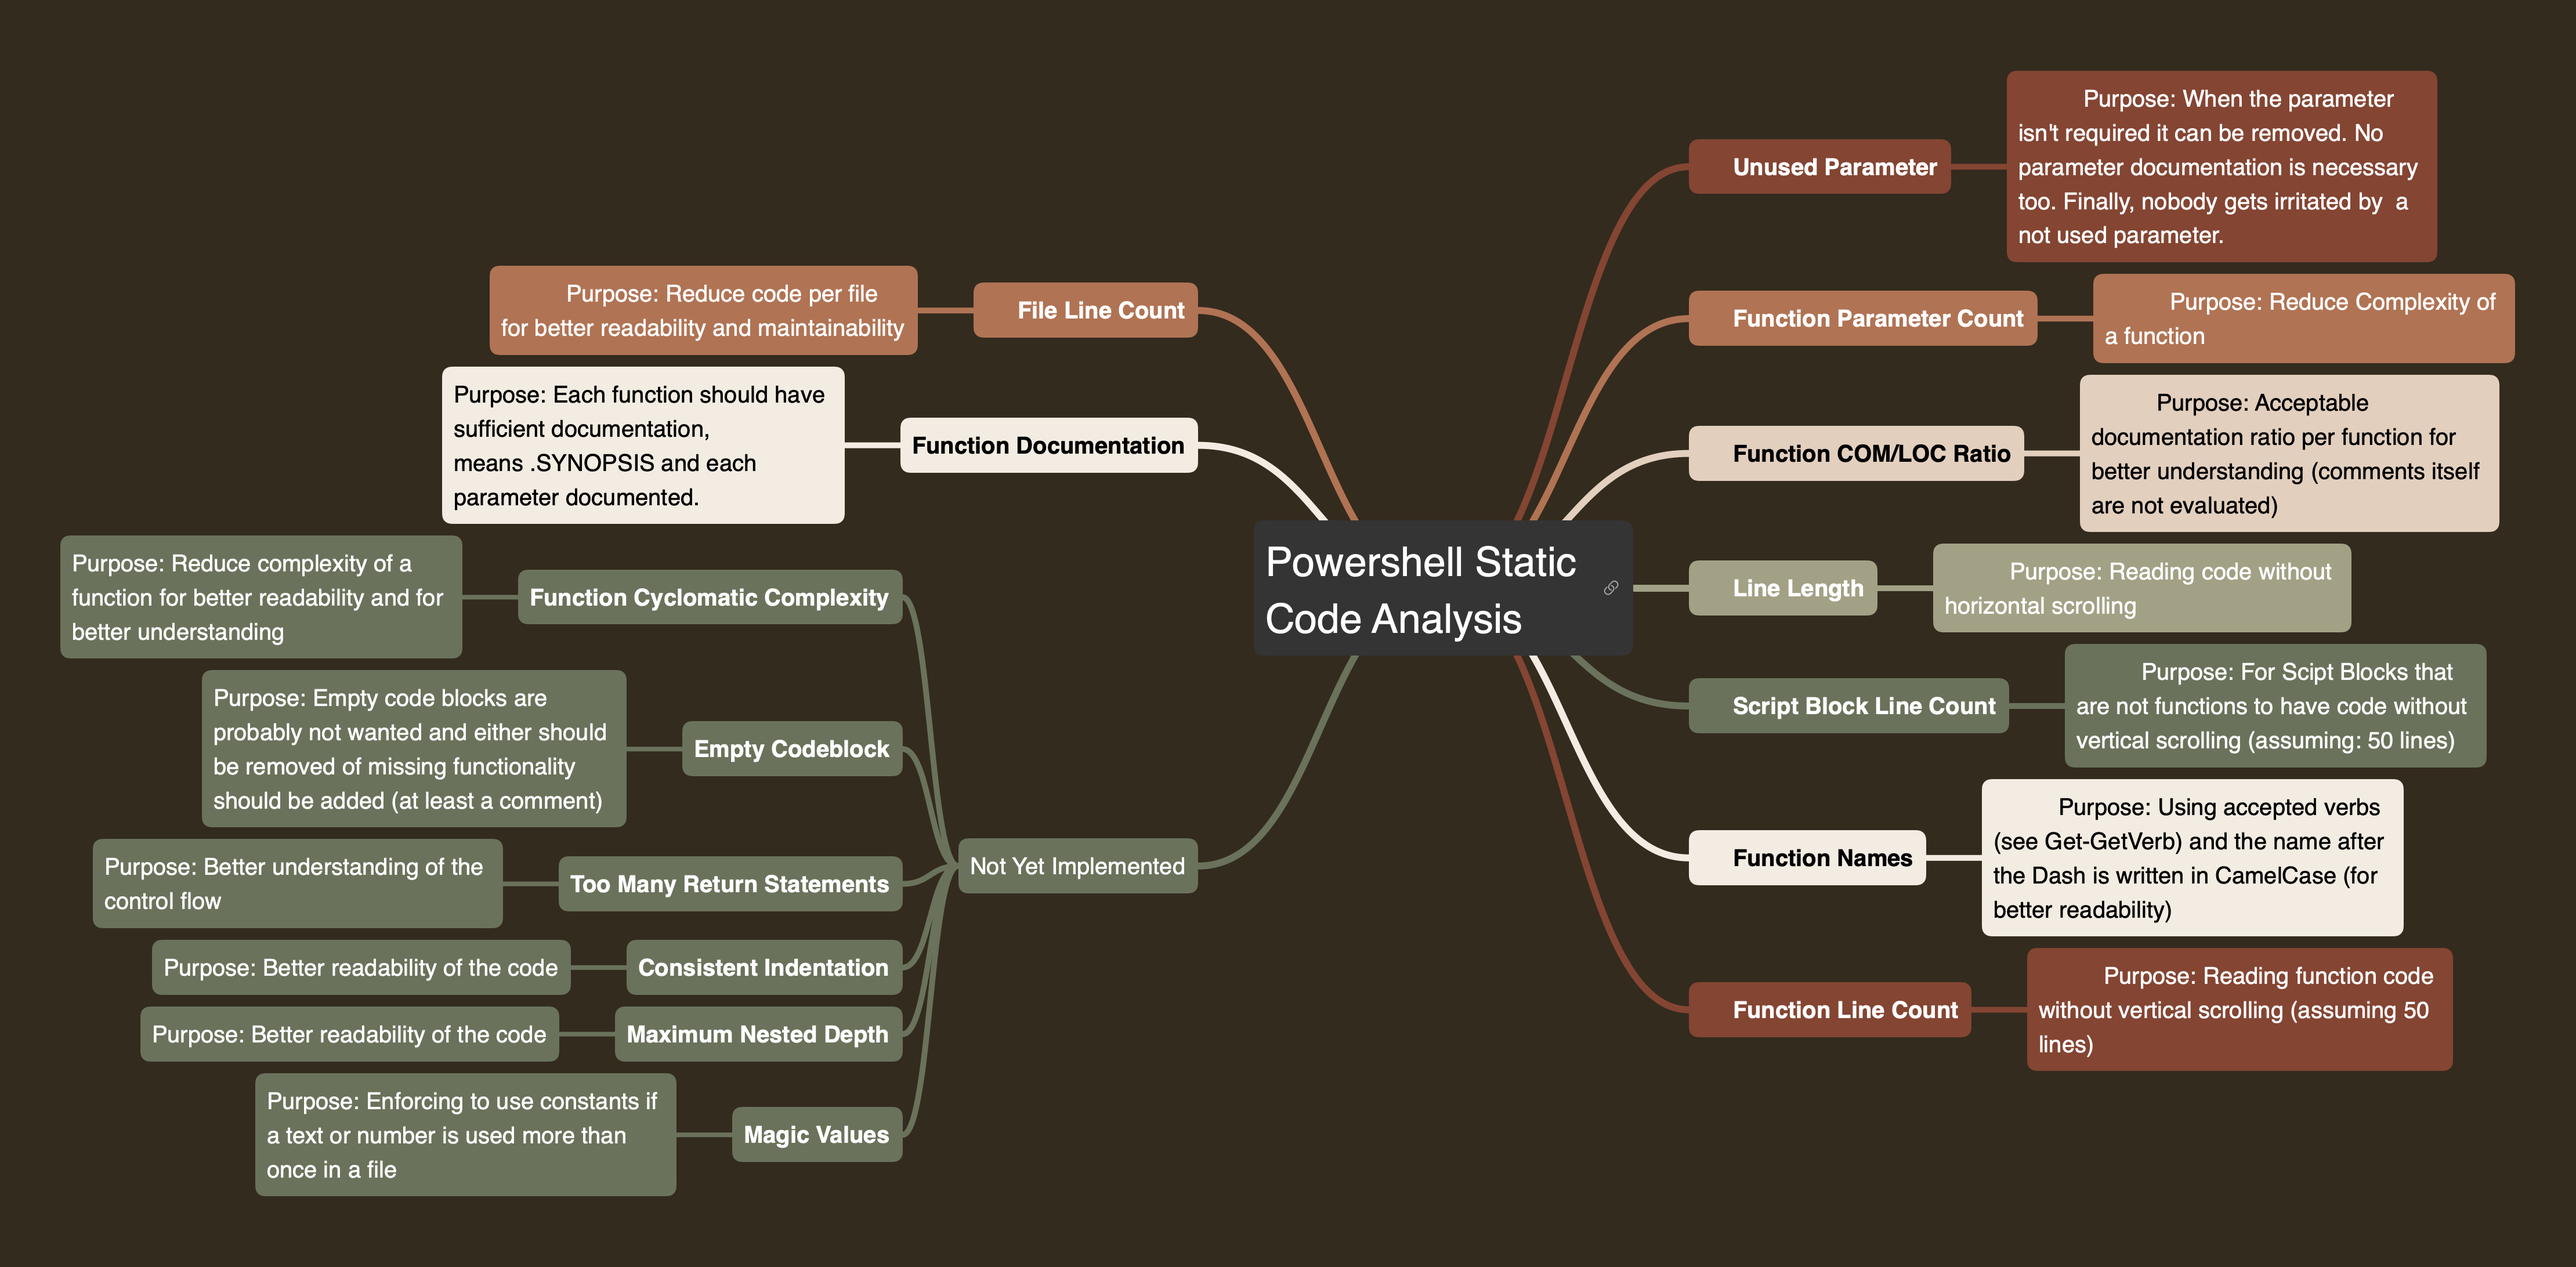
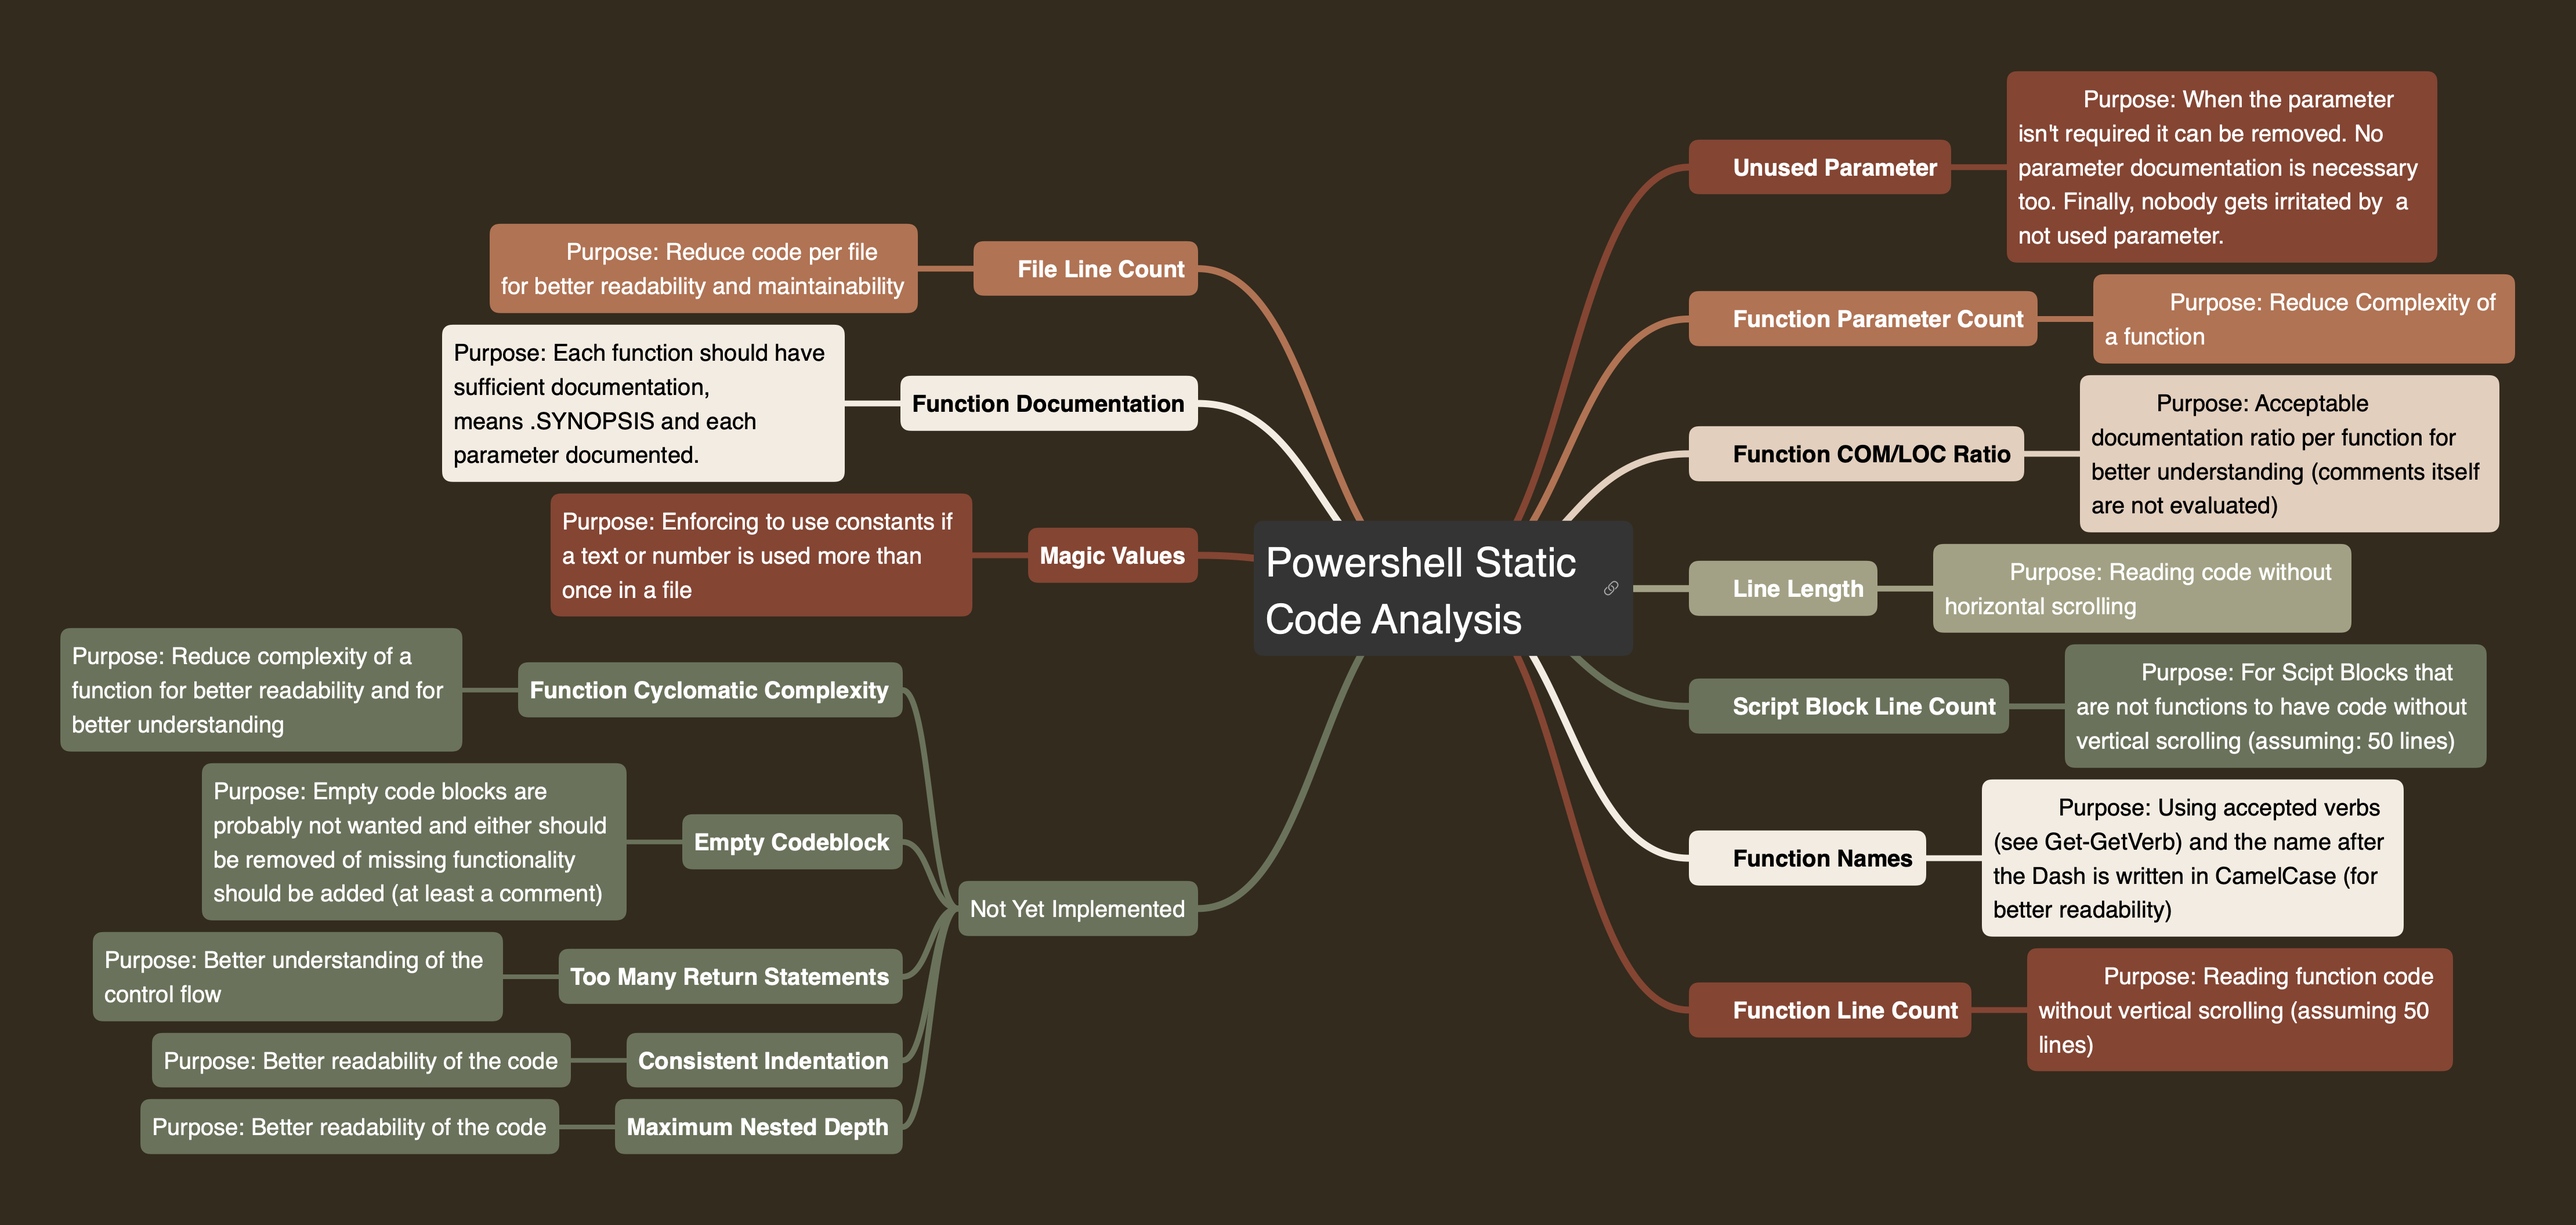
#23 New analyse task for magic values

Changed region(s): [[0.0, 0.0625, 0.9946, 0.9688]]

diff --git a/docs/static-code-analysis.md b/docs/static-code-analysis.md
@@ -202,8 +202,31 @@ be reported. The severity is `information`.
 ## Checking for function documentation
 
 There is nothing you can adjust. The analyse does report:
+
 - missing synopsis (at least this should be provided)
 - missing parameter documentation
 - documented parameter that is not in the parameter block
+
+The severity is `warning`.
+
+## Checking for magic values
+
+The default is shown in the given example.
+You can change it like following:
+
+```powershell
+Initialize-AnalyseTask {
+    param ([hashtable] $TaskData)
+    $TaskData.analyseConfiguration = @{
+        Global = @{
+            AnalyzePathAndFileNames = @('./Invoke-Tasks.ps1')
+        }
+        AnalyzeMagicValues = @{
+            Excludes = @(0, 1, "`"`"", "`"{0}`"")
+        }
+        # other settings
+    }
+}
+```
 
 The severity is `warning`.
